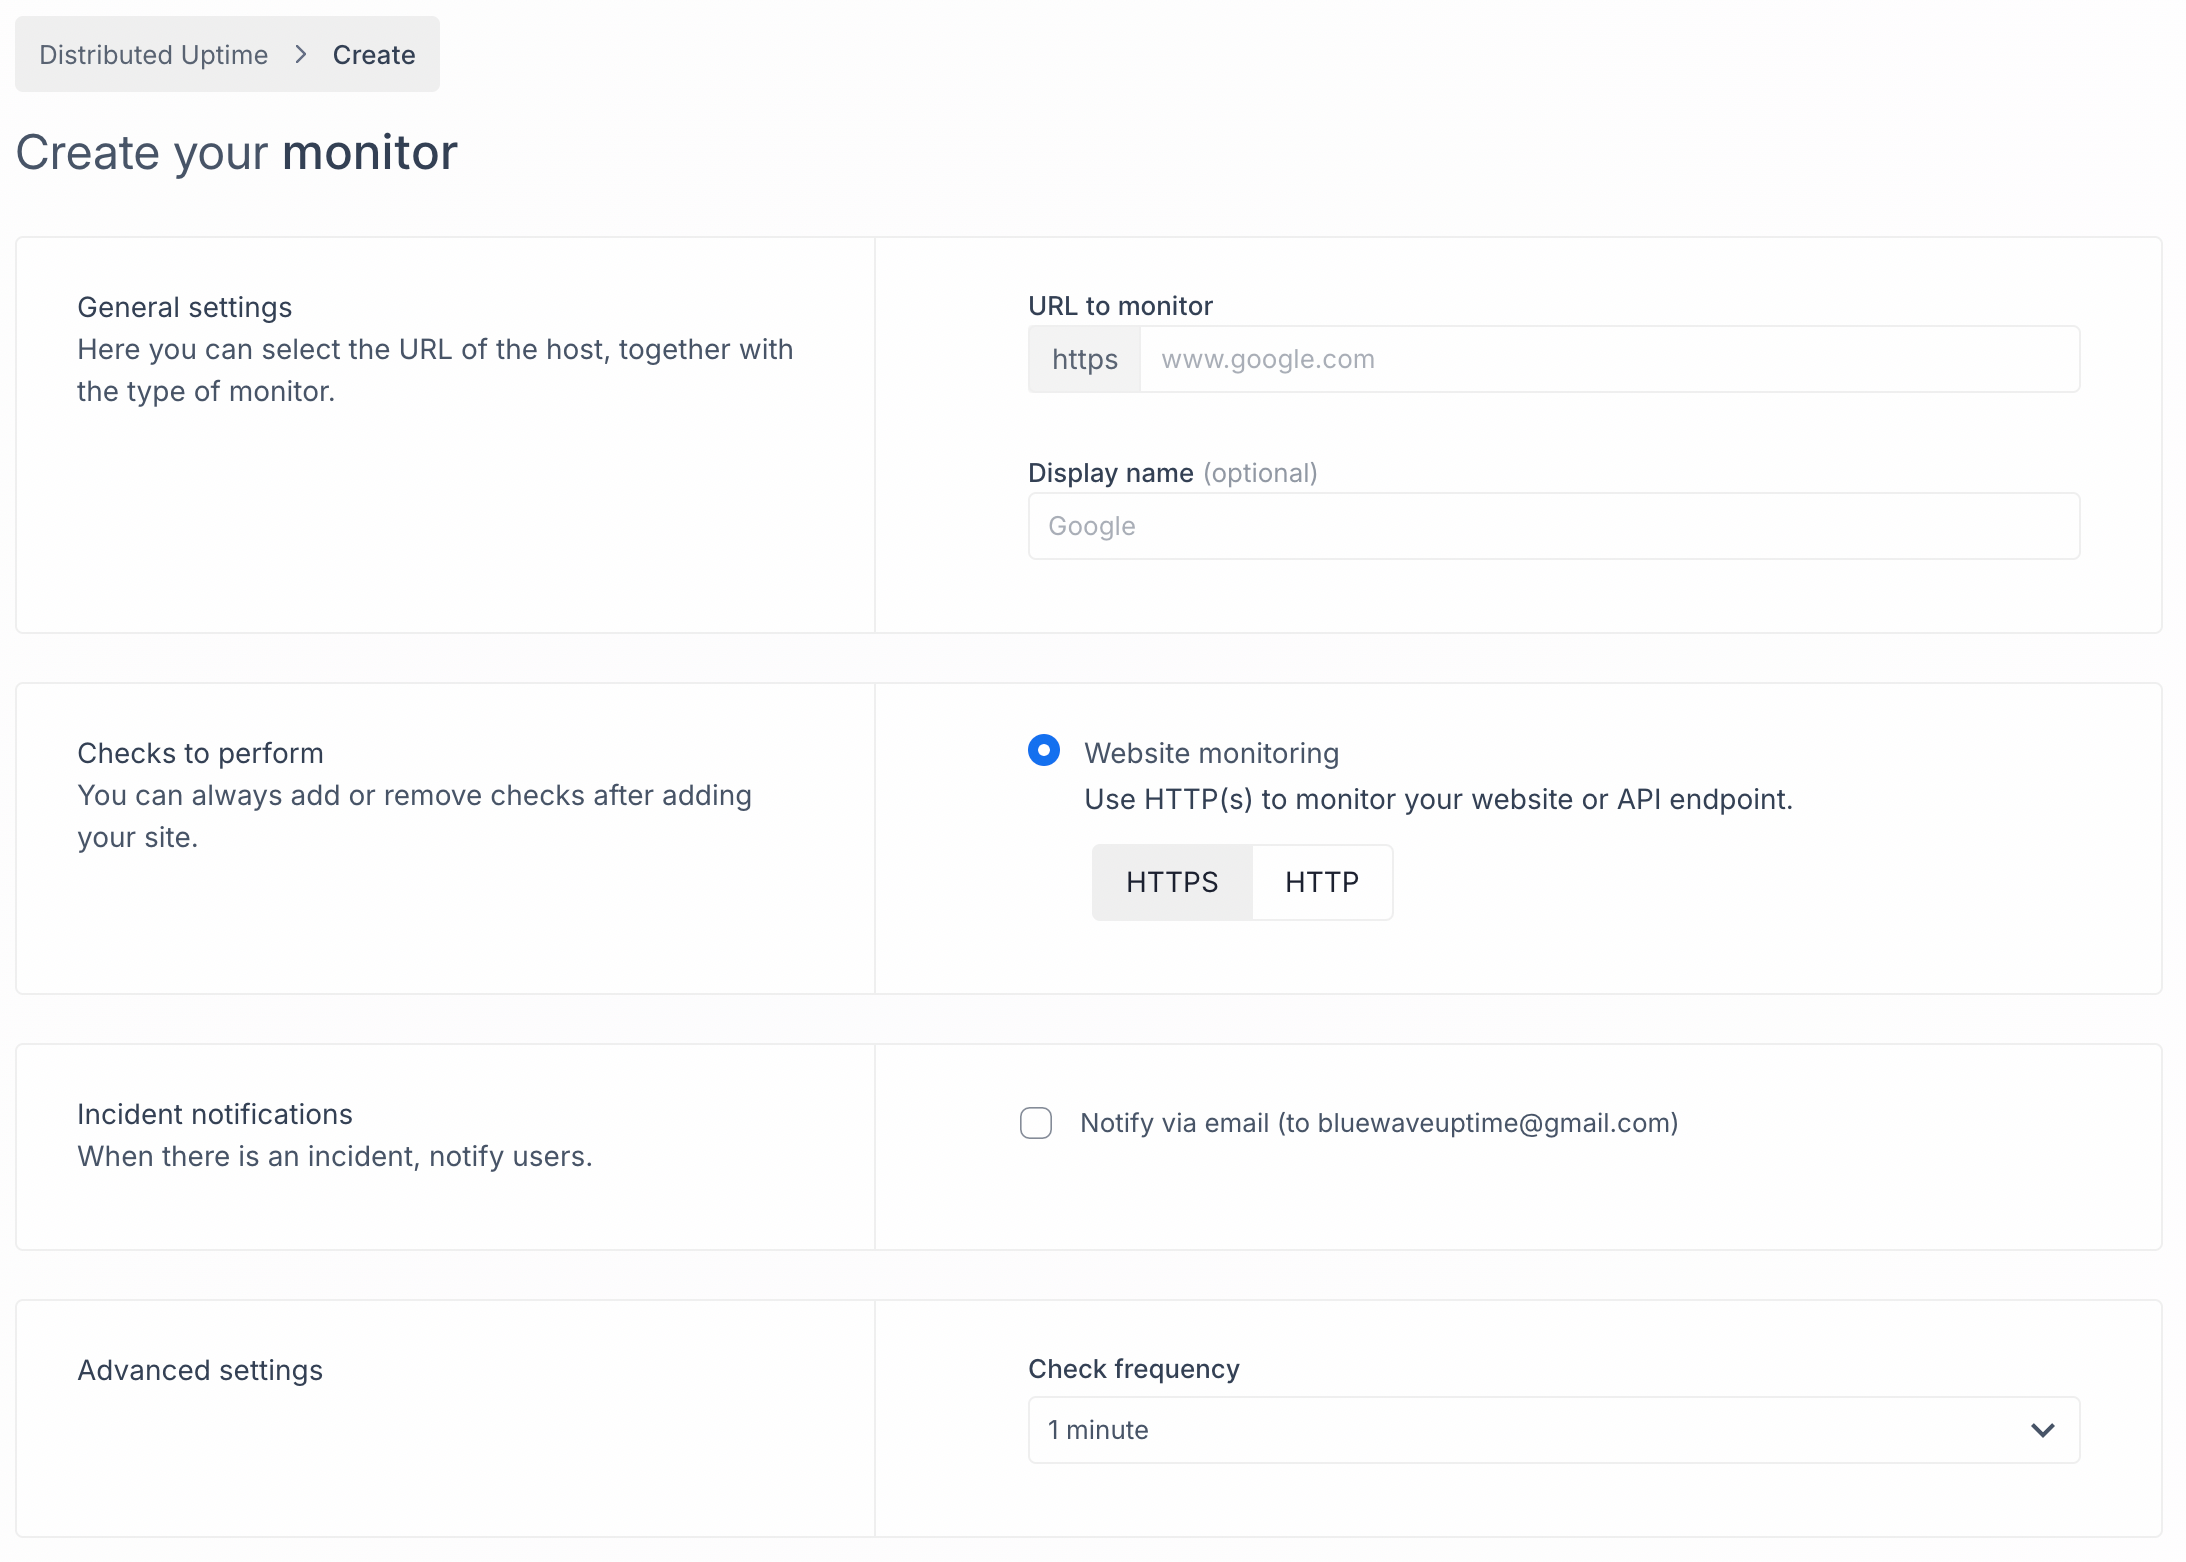
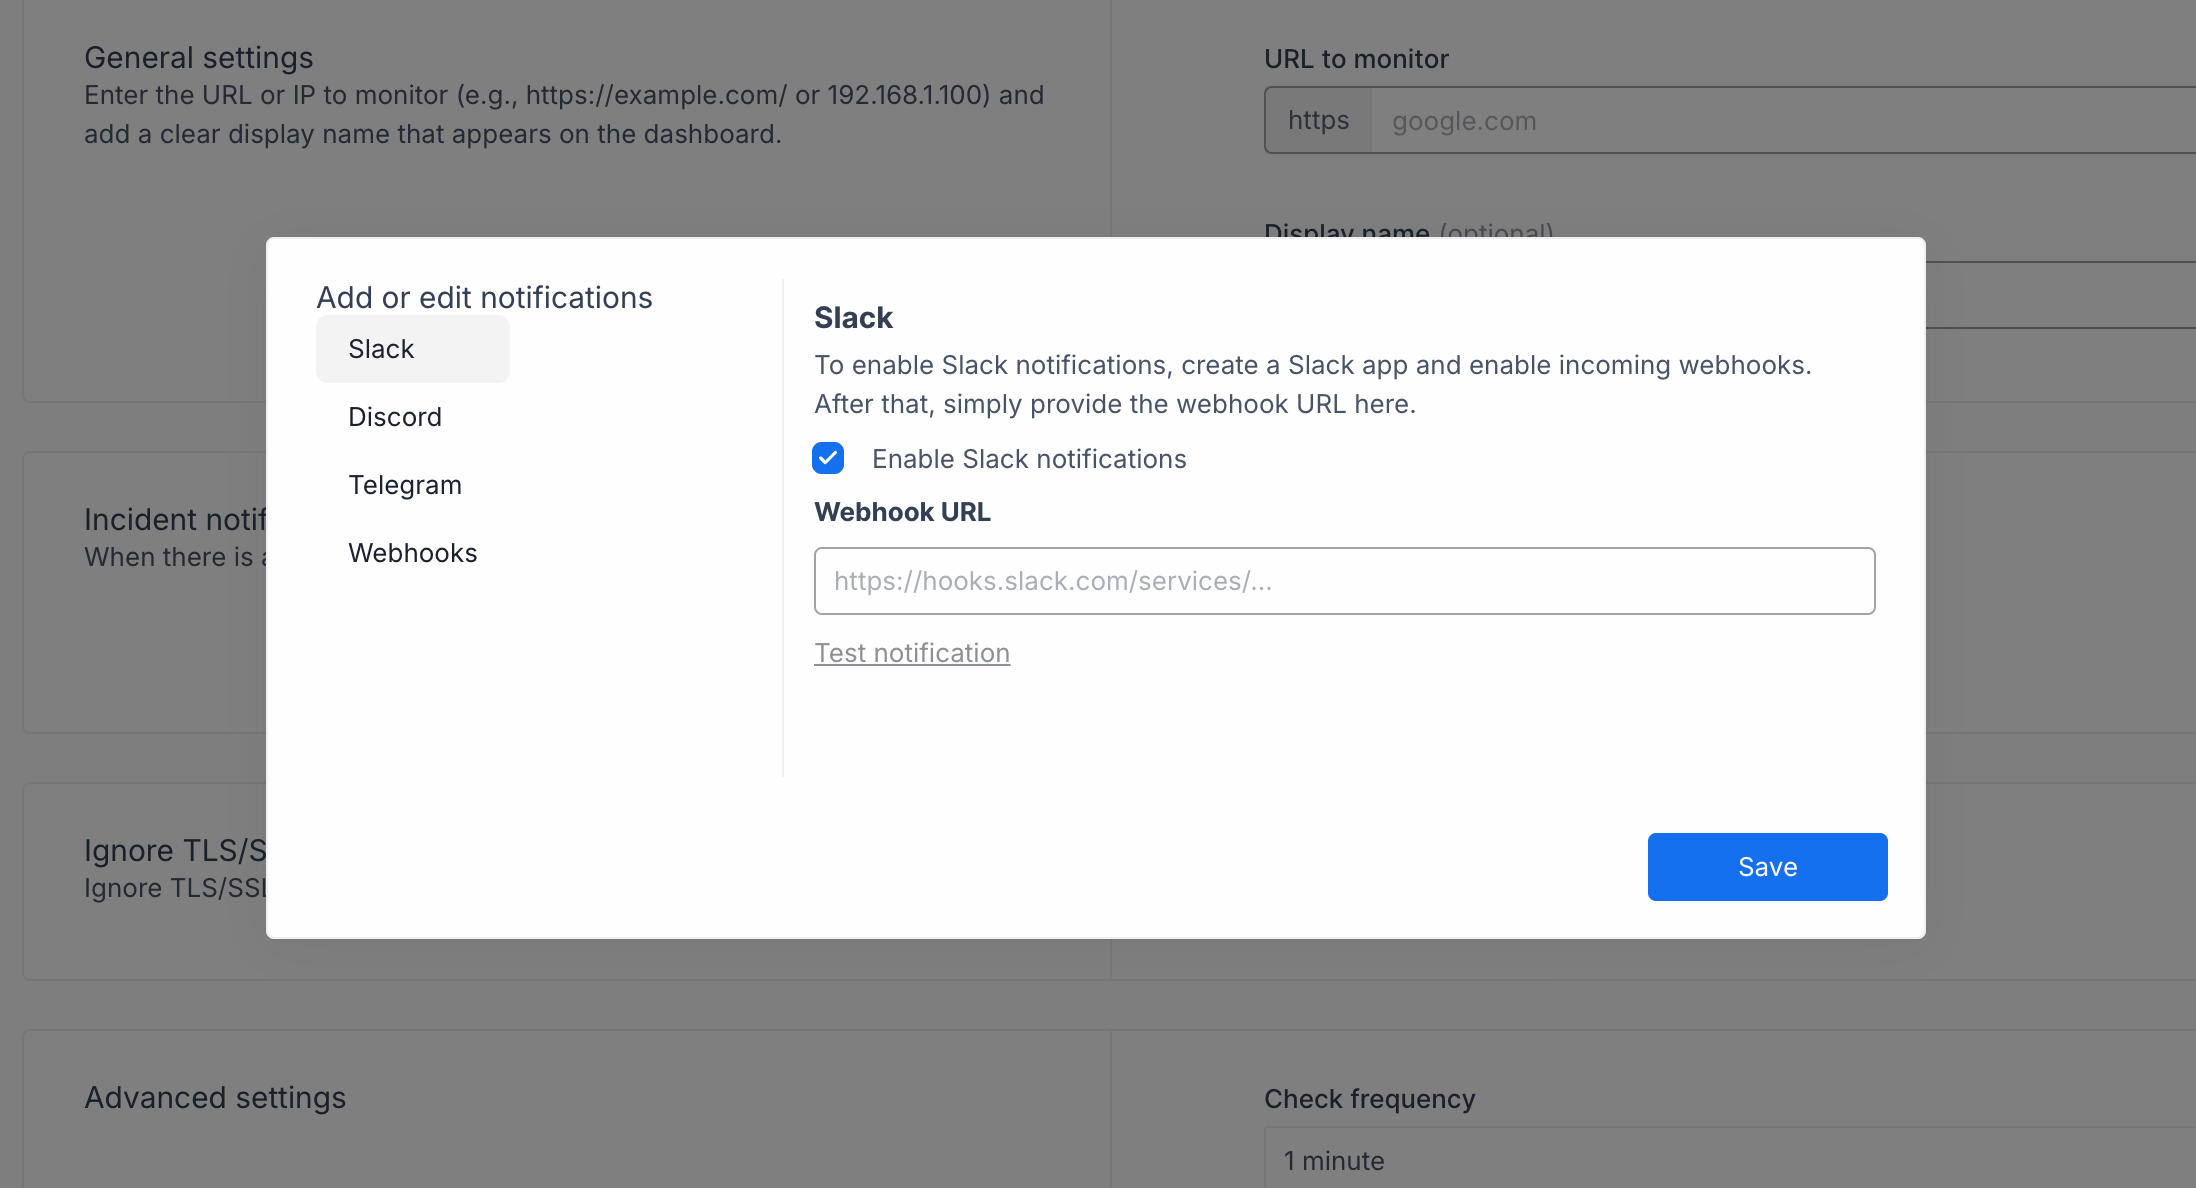
GITBOOK-15: No subject

diff --git a/users-guide/creating-a-new-monitor.md b/users-guide/creating-a-new-monitor.md
@@ -4,13 +4,27 @@ icon: chart-simple
 
 # Uptime monitor
 
-Monitor your infrastructure with ease. Follow these steps to create a new monitor in **Checkmate.so**:
+Follow these steps to create a new monitor.
 
-<figure><img src="../.gitbook/assets/createnewmonitor.png" alt=""><figcaption></figcaption></figure>
+## Checks to perform
 
-\---
+Select the type of checks you want to configure:
 
-## General Settings
+* **Website monitoring**
+  * Uses HTTP(s) protocols to monitor your website or API endpoint.
+  * Options: HTTPS or HTTP.
+* **Ping monitoring**
+  * Confirms the server's availability using ping responses.
+* **Docker monitoring:**\
+  Monitors whether a Docker container is running.
+  * Ensure your Docker daemon is exposed.
+  * Docker IDs must be the full 64 char Docker ID.  You can run `docker inpsect <short_id>` to get the full container ID.
+* **Port monitoring**
+  * Checks whether your port is open or not.
+
+***
+
+## General settings
 
 * **URL to Monitor:**\
   Provide the complete URL of the website or service you want to monitor.
@@ -19,35 +33,26 @@ Monitor your infrastructure with ease. Follow these steps to create a new monito
 
 ***
 
-## Checks to Perform
-
-Select the type of checks you want to configure:
-
-* **Website Monitoring:**\
-  Uses HTTP(s) protocols to monitor your website or API endpoint.
-  * Options: HTTPS or HTTP.
-* **Ping Monitoring:**\
-  Confirms the server's availability using ping responses.
-* **Docker Monitoring (Experimental):**\
-  Monitors whether a Docker container is running.
-  * Note: Ensure your Docker daemon is exposed.
-
-***
-
-## Incident Notifications
+## Incident notifications
 
 Stay informed when incidents occur:
 
 * **Email Notifications:** Receive alerts via email.
-* **Upcoming Features:** SMS and push notifications are on the way.
+* **Notification integration:** If you want to get notified on Discord, Slack, Telegram or via Webhooks, you can use this section. Click on the button and you'll see a list of notification channels.
+
+<figure><img src="../.gitbook/assets/image.png" alt=""><figcaption></figcaption></figure>
 
 ***
 
-## Advanced Settings
+## Ignore TLS/SSL error
 
-* **Check Frequency:**\
+If there is a TLS/SSL error when connecting to a service, you can tell Checkmate to continue checking the service's uptime.
+
+## Advanced settings
+
+* **Check frequency:**\
   Set the frequency of checks. The default is 1 minute, but you can adjust this based on your requirements.
 
-After completing all configurations, click the **Create Monitor** button at the bottom-right to activate your monitor.
+After completing all configurations, click the **Create monitor** button at the bottom-right to activate your monitor.
 
 ***

diff --git a/users-guide/distributed-uptime.md b/users-guide/distributed-uptime.md
@@ -14,7 +14,7 @@ This is done by deploying monitoring nodes across various regions. This way it p
 
 Currently, Checkmate's distributed uptime functionality is powered by hundreds of thousands of devices globally.&#x20;
 
-<figure><img src="../.gitbook/assets/image (1).png" alt=""><figcaption><p>Distributed uptime monitor checking Solana's endpoint</p></figcaption></figure>
+<figure><img src="../.gitbook/assets/image (1) (1).png" alt=""><figcaption><p>Distributed uptime monitor checking Solana's endpoint</p></figcaption></figure>
 
 ### **How it works**
 
@@ -54,7 +54,7 @@ This page allows you to set up a new monitor to track the availability and perfo
 
 Once you've filled in the details, click the **Save** button to start monitoring the URL.
 
-<figure><img src="../.gitbook/assets/image.png" alt=""><figcaption></figcaption></figure>
+<figure><img src="../.gitbook/assets/image (1).png" alt=""><figcaption></figcaption></figure>
 
 Once you are done adding your distributed uptime monitor, you'll see it under its sidebar entry. Here you can also edit, clone, remove or delete an uptime using the gear icon.
 
